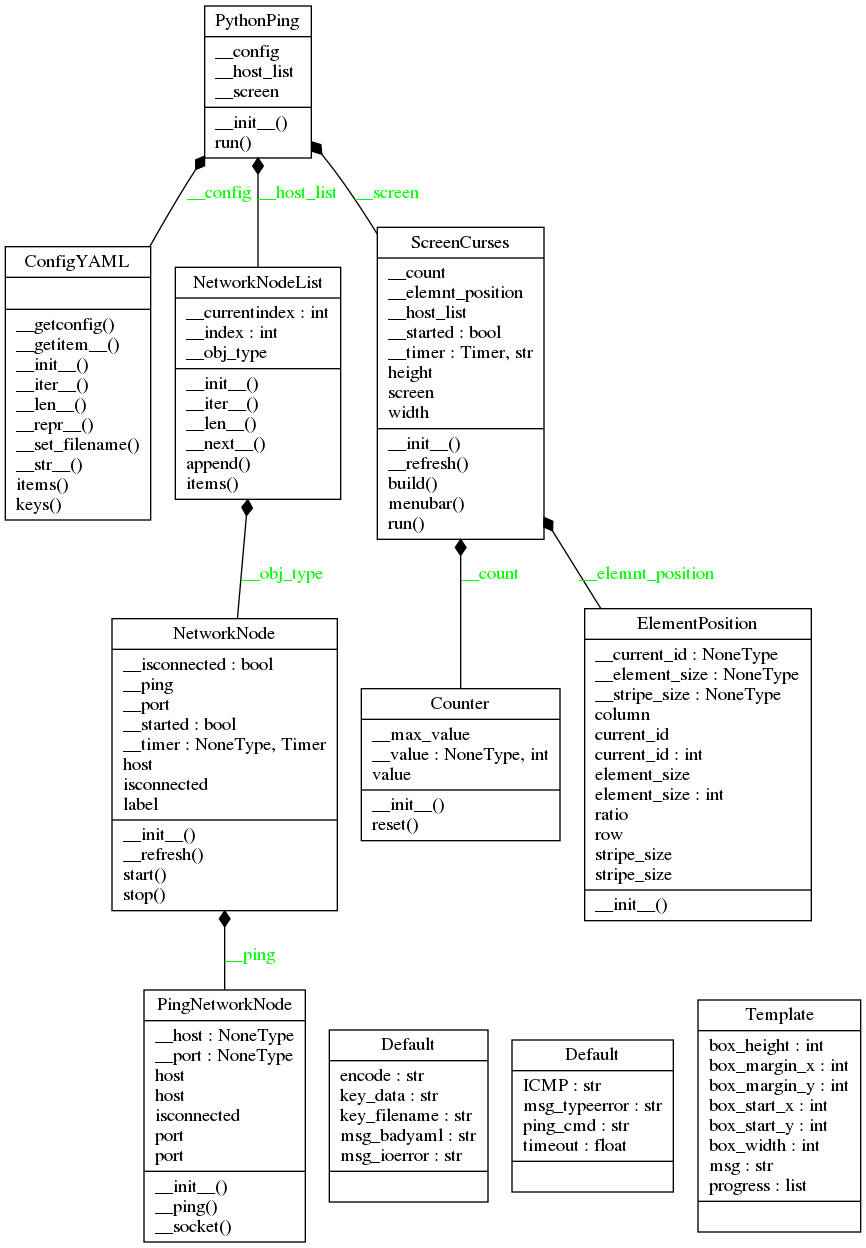
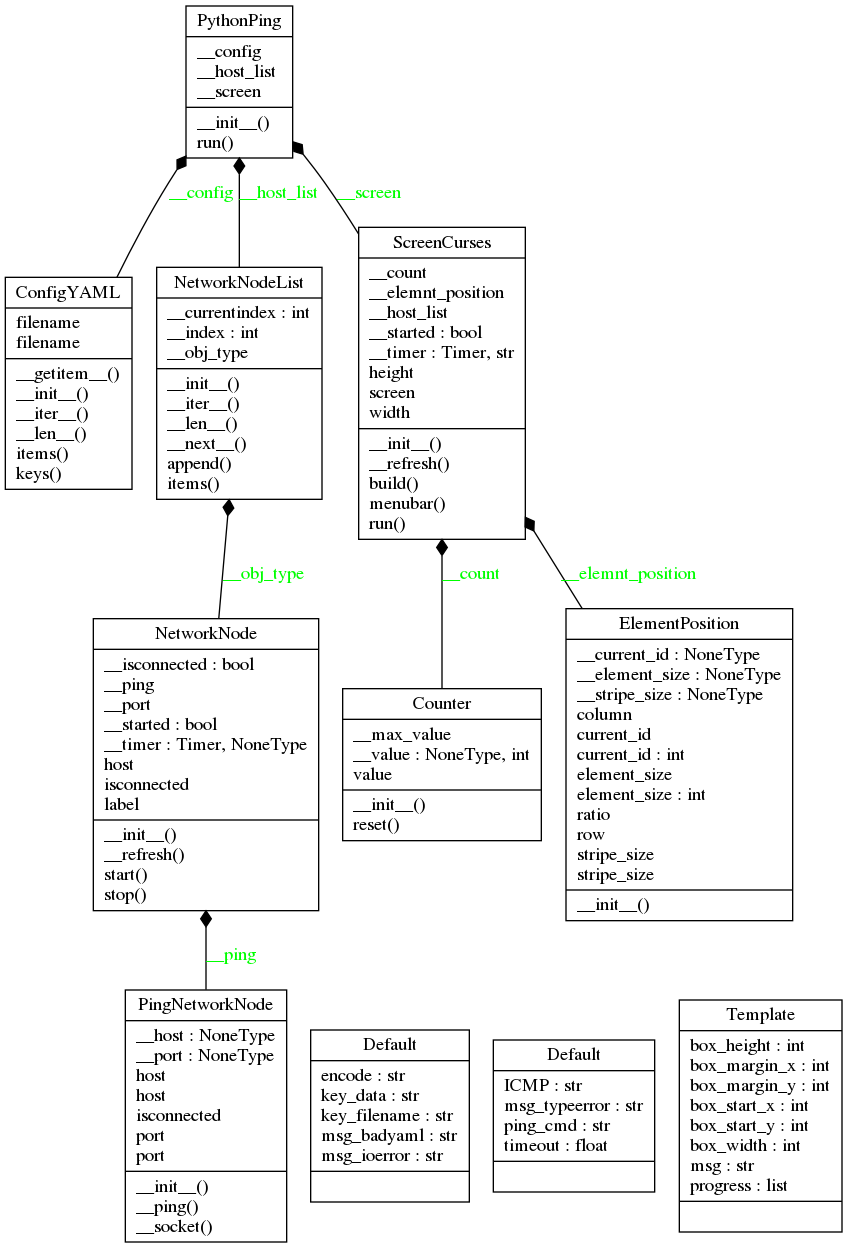
improve confyaml

diff --git a/pytping/confyaml.py b/pytping/confyaml.py
@@ -52,48 +52,44 @@ class ConfigYAML(dict):
         dict_keys(['Internet access', 'vCenter', 'ESX1', 'ESX2'])
         >>> print(len(config))
         4
+        >>> #import json
+        >>> #print(json.dumps(config, indent=4))
     """
     def __init__(self, filename):
-        self.__set_filename(filename)
-        self.__getconfig()
+        super().__init__()
+        self.filename = filename
 
-    def __set_filename(self, filename):
+    @property
+    def filename(self):
+        return self['filename']
+
+    @filename.setter
+    def filename(self, filename):
         if pathlib.Path(filename).exists():
-            self.__dict__[Default.key_filename] = filename
+            self['filename'] = str(filename)
+            with open(filename, 'r') as yaml_file:
+                try:
+                    self['data'] = yaml.load(yaml_file)
+                except yaml.YAMLError:
+                    raise ValueError(Default.msg_badyaml)
         else:
             raise IOError(Default.msg_ioerror)
 
-    def __getconfig(self):
-        """
-        @Property:
-            config (dict)
-        """
-        with open(self.__dict__[Default.key_filename], 'r') as yaml_file:
-            try:
-                self.__dict__[Default.key_data] = yaml.load(yaml_file)
-            except yaml.YAMLError:
-                raise ValueError(Default.msg_badyaml)
-
     def __getitem__(self, key):
-        return self.__dict__[Default.key_data][key]
+        current_data = super().__getitem__(Default.key_data)
+        return current_data[key]
 
     def __len__(self):
-        return len(self.__dict__[Default.key_data])
+        return len(super().__getitem__(Default.key_data))
 
     def __iter__(self):
-        return iter(self.__dict__[Default.key_data])
-
-    def __repr__(self):
-        return str(self.__dict__)
-
-    def __str__(self):
-        return repr(self)
+        return iter(super().__getitem__(Default.key_data))
 
     def keys(self):
-        return self.__dict__[Default.key_data].keys()
+        return super().__getitem__(Default.key_data).keys()
 
     def items(self):
-        return self.__dict__[Default.key_data].items()
+        return super().__getitem__(Default.key_data).items()
 
 
 if __name__ == "__main__":

diff --git a/README.md b/README.md
@@ -159,14 +159,11 @@ zope==4.0b4
 
 ### Objects
 [ConfigYAML()](#configyaml)<br />
-[ConfigYAML.__getconfig(self)](#configyaml__getconfigself)<br />
+[@Property: ConfigYAML.filename](#property-configyamlfilename)<br />
 [ConfigYAML.__getitem__(self, key)](#configyamlgetitemself-key)<br />
 [ConfigYAML.__init__(self, filename)](#configyamlinitself-filename)<br />
 [ConfigYAML.__iter__(self)](#configyamliterself)<br />
 [ConfigYAML.__len__(self)](#configyamllenself)<br />
-[ConfigYAML.__repr__(self)](#configyamlreprself)<br />
-[ConfigYAML.__set_filename(self, filename)](#configyaml__set_filenameself-filename)<br />
-[ConfigYAML.__str__(self)](#configyamlstrself)<br />
 [ConfigYAML.items(self)](#configyamlitemsself)<br />
 [ConfigYAML.keys(self)](#configyamlkeysself)<br />
 [Counter()](#counter)<br />
@@ -244,15 +241,23 @@ Use:
     dict_keys(['Internet access', 'vCenter', 'ESX1', 'ESX2'])
     >>> print(len(config))
     4
+    >>> for member in config:
+    >>>     print(member)
+    zekf,
+    >>> #import json
+    >>> #print(json.dumps(config, indent=4))
 ```
 
-##### ConfigYAML.__getconfig(self)
+##### @Property: ConfigYAML.filename
 ```python
-def ConfigYAML.__getconfig(self):
+@property
+def ConfigYAML.filename(self):
+@filename.setter
+def ConfigYAML.filename(self, filename):
+
 ```
 > <br />
-> <b>@Property:</b><br />
-> &nbsp;&nbsp;&nbsp;&nbsp;&nbsp;&nbsp;&nbsp;&nbsp;&nbsp;&nbsp;&nbsp;&nbsp;&nbsp;&nbsp;&nbsp;  config (dict)<br />
+> @Property<br />
 > <br />
 ##### ConfigYAML.__getitem__(self, key)
 ```python
@@ -281,27 +286,6 @@ def ConfigYAML.__len__(self):
 ```
 > <br />
 > Return len(self).<br />
-> <br />
-##### ConfigYAML.__repr__(self)
-```python
-def ConfigYAML.__repr__(self):
-```
-> <br />
-> Return repr(self).<br />
-> <br />
-##### ConfigYAML.__set_filename(self, filename)
-```python
-def ConfigYAML.__set_filename(self, filename):
-```
-> <br />
-> Docstring empty<br />
-> <br />
-##### ConfigYAML.__str__(self)
-```python
-def ConfigYAML.__str__(self):
-```
-> <br />
-> Return str(self).<br />
 > <br />
 ##### ConfigYAML.items(self)
 ```python
